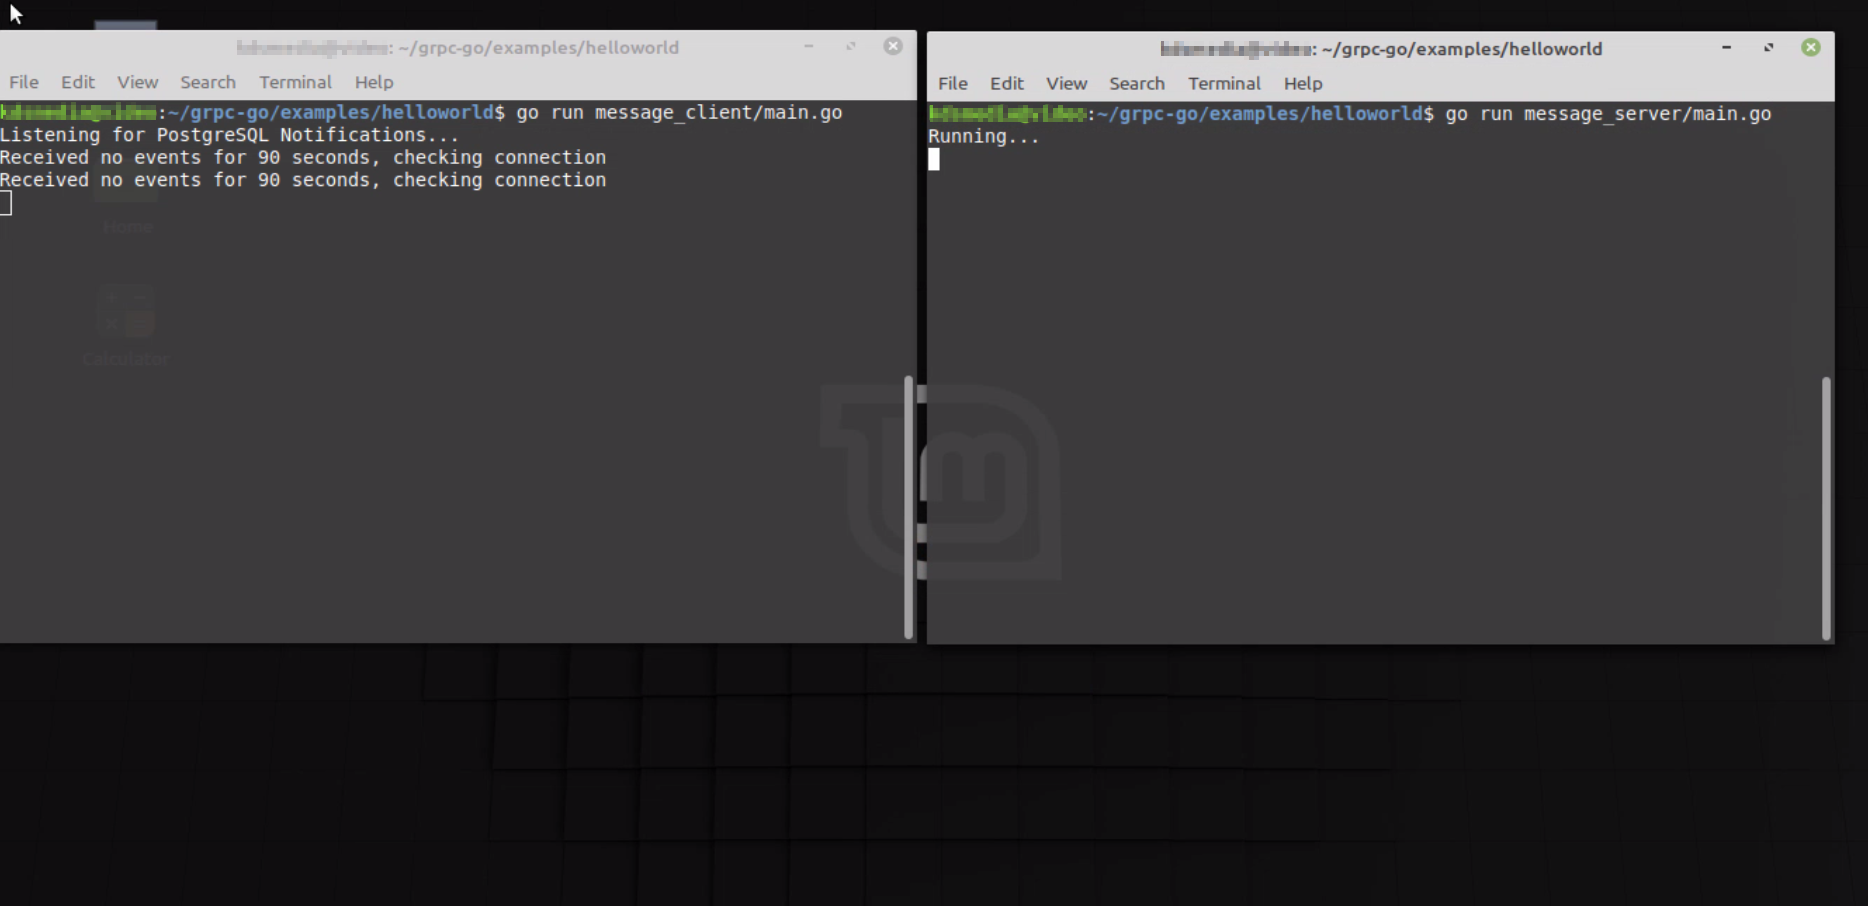
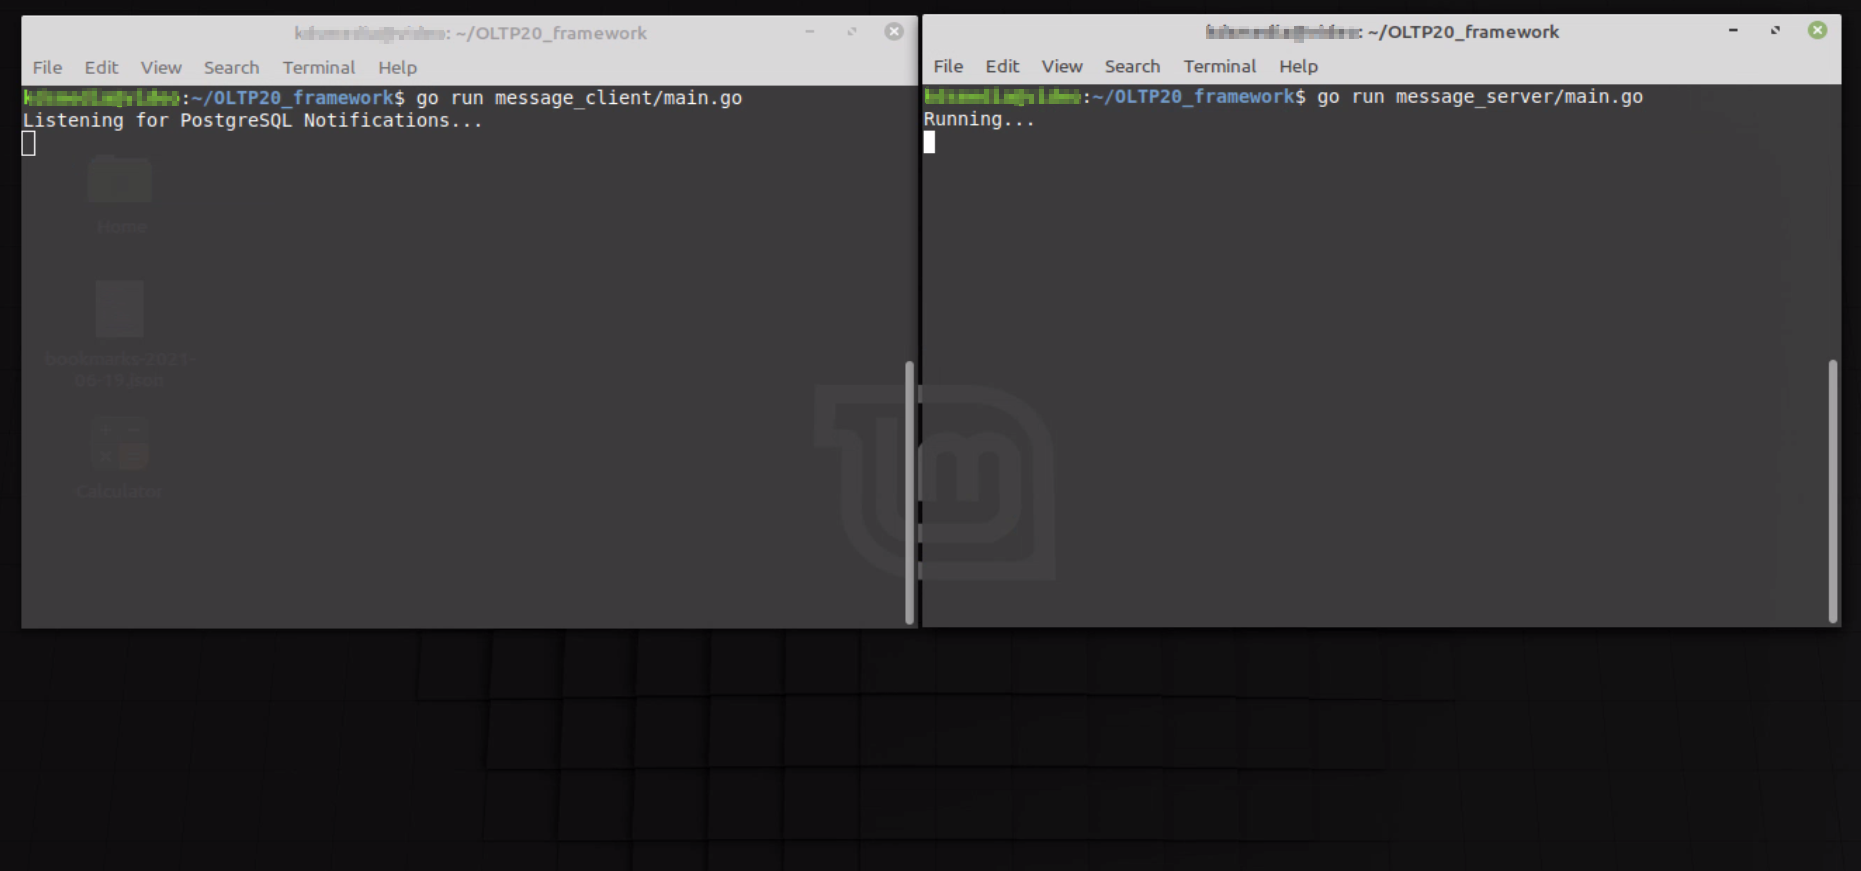
update 20210621 22:22

Changed region(s): [[0.0, 0.0, 0.9973, 0.744]]

diff --git a/README.md b/README.md
@@ -51,42 +51,51 @@ https://golang.org/doc/install
 
 https://grpc.io/docs/languages/go/quickstart/
 
+https://github.com/git-guides/install-git
+
 https://code.visualstudio.com/
 
 **SET UP**
 
-Step one is to create a local postgresql database and schema to store messages. In Linux, 
+GIT
+
+The easiset way to start is to clone the git hub repository.  Assuming you have git installed, in linux, change to your home directory and run:
+
+git clone https://github.com/dkeeshin/OLTP20_framework.git
+
+You will end up with a OLTP20_framework and give you a local version of the scripts for running the proof of concept.
+
+PostgreSQL
+
+Next you'll need to create a local postgresql database and schema to store messages. In Linux, change to /OLTP20_framework/postgreSQL  directory and run:
 
 		$ sudo -u postgres psql -p 5432 
 
-From the postgres command line, run https://github.com/dkeeshin/OLTP20_framework/blob/main/postgreSQL/0001create_oltp20_framework.sql
+From the postgres command line, run
 
-		postgres=# \i /Documents\0001create_oltp20_framework.sql
+		postgres=# \i 0001create_oltp20_framework.sql
 
-The above script creates a database called __oltp20_framework__ and connects to it. 
-Next run  https://github.com/dkeeshin/OLTP20_framework/blob/main/postgreSQL/0002create_outgoing.sql using this command:
+The above script creates a database called __oltp20_framework__ and connects to it. Next run,
 
 		oltp20_framework=# \i 0002create_outgoing.sql
 
 This script contains a trigger on the __message.outgoing__ table. This trigger fires off a notification using postgreSQLs' [LISTEN](https://www.postgresql.org/docs/9.1/sql-listen.html) and [NOTIFY](https://www.postgresql.org/docs/9.1/sql-notify.html) feature.
 
-Meanwhile, start the local GO code that "listens" for the notifications from postgreSQL. First, make sure [this GO code](https://github.com/dkeeshin/OLTP20_framework/blob/main/message_client/main.go) is in place:
+GO
 
-		https://github.com/dkeeshin/OLTP20_framework/blob/main/message_client/main.go
+Assuming you have GO installed, change to the OLTP20_framework directory and run this
 
-*NOTE: GO can be finicky about where it runs from.  I modeled the GO code here on the "HelloWorld" examples in https://grpc.io/docs/languages/go/quickstart/, follow the instructions in the quickstart and you'll end up with a directory like*
+	export PATH=$PATH:/usr/local/go/bin
 
-		/grpc-go/examples/helloworld
+This will make sure there is a path to the GO program files.
 
-I would recommend creating a directory named *message_client* in helloworld and put the main.go above in it.  Similarily,  I would create a *message_server* directory [for this gRPC server GO code](https://github.com/dkeeshin/OLTP20_framework/blob/main/message_server/main.go).
+Next you will need to edit postgreSQL password and if necessary port number in main.go in OLTP20_framework/message_client directory  You can use a text editor or Visual Studio code.  
 
-		https://github.com/dkeeshin/OLTP20_framework/blob/main/message_server/main.go
+![image](https://github.com/dkeeshin/OLTP20_framework/blob/main/message_client/07_client_main_go.png)
 
-*If there are issues,  be sure to check the linux path command.*
+Next run the local GO code that "listens" for the notifications from postgreSQL. Change to the OLTP20_framework directory and run:
 
-Once the GO code is in place start up the listener. Execute:
-
-		go run message_client/main.go
+	go run message_client/main.go
 
 ![image](https://github.com/dkeeshin/OLTP20_framework/blob/main/message_client/01_message_client.png)
 
